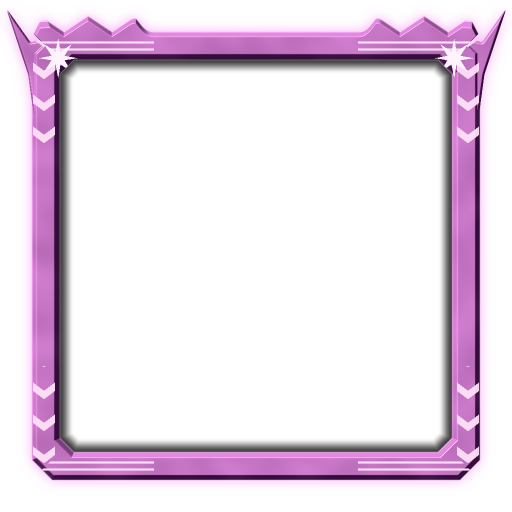
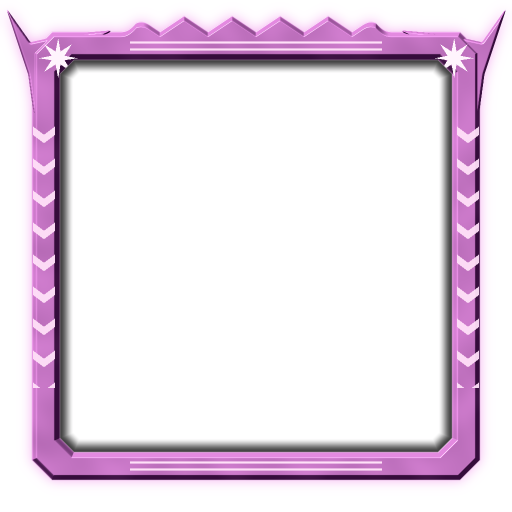
Cards: edge details repeat along the whole edge, Covenant fins stay in the corners, notes

diff --git a/Tools/UI/make_card_art.py b/Tools/UI/make_card_art.py
@@ -32,7 +32,23 @@ X = (_xx + 0.5) / SS
 Y = (_yy + 0.5) / SS
 ALONG = np.where(np.abs(X - C) > np.abs(Y - C), Y, X)   # Position along the nearest edge.
 ON_SIDE = np.abs(X - C) > np.abs(Y - C)                 # True on the left and right edges.
-CORNER_DIST = np.minimum(np.abs(X - C), np.abs(Y - C))
+FROM_EDGE_MIDDLE = np.abs(ALONG - C)                    # How far along an edge from its middle.
+
+
+def on_edge(extra=0.0):
+    """True on the repeating middle of each edge, and `extra` pixels on into the corners."""
+    return FROM_EDGE_MIDDLE <= P / 2.0 + extra
+
+
+def whole_repeats(period, phase=0.0, extra=0.0):
+    """True where a shape repeating every `period` pixels sits wholly on the edge: it is kept or dropped as a whole, never cut in half."""
+    centre = B + (np.floor((ALONG - B) / period + phase) + 0.5 - phase) * period
+    return np.abs(centre - C) <= P / 2.0 + extra
+
+
+def fade_into_corners(start, end):
+    """1 on the middle of each edge, fading to 0 between `start` and `end` pixels beyond its repeating part."""
+    return 1.0 - smooth(P / 2.0 + start, P / 2.0 + end, FROM_EDGE_MIDDLE)
 
 
 def smooth(edge0, edge1, v):
@@ -184,7 +200,7 @@ def frame_unsc(path):
     outer, window = box(24.0, chamfer=62.0), box(58.0, chamfer=40.0)
     band = inside(outer) * (1.0 - inside(window))
     noise = periodic_noise(11)
-    plate_seams = (np.abs(((ALONG - B) % (P / 2.0)) - 12.0) < 1.2) & (CORNER_DIST > C - B + 2.0)
+    plate_seams = (np.abs(((ALONG - B) % (P / 2.0)) - 12.0) < 1.2) & on_edge(0.0)
     mid = np.abs(-outer - 13.0) < 0.9
     height = bevel(outer, 7.0) * bevel(-window, 6.0) - 0.34 * mid - 0.5 * plate_seams
     c = Canvas()
@@ -193,22 +209,19 @@ def frame_unsc(path):
     wear = np.clip(periodic_noise(12, kmax=7) * 0.5 + periodic_noise(13, kmax=7) * 0.5 - 0.72, 0.0, 1.0)
     c.paint(rgb("c9d0d2"), band * wear * 0.65)
 
-    # Hazard stripes: on a strip along the inside of the band, and on plates across each cut corner.
+    # Hazard stripes: on a strip along the inside of the band, at the top and the bottom.
     stripes = (((X + Y) / 32.0) % 1.0) < 0.5
     hazard_color = np.where(stripes[..., None], np.asarray(rgb("e0a81c"), np.float32), np.asarray(rgb("15161a"), np.float32))
-    in_corner = mirrored(lambda x, y: inside(np.maximum(np.abs(x + y - 100.0) - 20.0, -(x + y - 60.0))))
-    corner_plate = in_corner * inside(box(32.0, chamfer=64.0)) * (1.0 - inside(box(52.0, chamfer=44.0)))
-    corner_plate = np.clip(corner_plate, 0.0, 1.0)
     strip = inside(np.abs(outer + 26.0) - 5.0) * smooth(C - 92.0, C - 70.0, np.maximum(np.abs(X - C), np.abs(Y - C)))
     strip = strip * (np.abs(Y - C) > np.abs(X - C))  # Strips along the top and bottom edges.
-    hazard = np.clip(corner_plate + strip, 0.0, 1.0) * band
+    hazard = strip * band
     c.paint(hazard_color, hazard)
     diffuse, _ = shade(height, 30.0)
     c.paint((0, 0, 0), hazard * np.clip(0.55 - diffuse, 0.0, 0.5))
 
     # Rivets along the edges, and larger bolts in the corners.
     rivet_u = (((ALONG - B) / 48.0) % 1.0 - 0.5) * 48.0
-    rivet = inside(np.hypot(rivet_u, -outer - 6.0) - 2.6) * (CORNER_DIST > C - B + 10.0)
+    rivet = inside(np.hypot(rivet_u, -outer - 6.0) - 2.6) * on_edge(26.0)
     c.paint(rgb("c6ced1"), rivet * band)
     bolts = mirrored(lambda x, y: inside(np.hypot(x - 92.0, y - 41.0) - 4.2) + inside(np.hypot(x - 41.0, y - 92.0) - 4.2))
     c.paint(rgb("dfe5e7"), np.clip(bolts, 0, 1))
@@ -224,10 +237,9 @@ def frame_covenant(path):
     for flip in (False, True):
         fin = []
         for t in np.linspace(0.0, 1.0, 40):
-            fin.append((6.0 + 165.0 * t ** 1.8, 6.0 + 22.0 * t + 0.0 * t))
+            fin.append((6.0 + 146.0 * t ** 1.8, 6.0 + 22.0 * t))   # Stays inside the corner: the edge beyond it repeats.
         for t in np.linspace(1.0, 0.0, 40):
-            fin.append((8.0 + 20.0 * t ** 0.0 * 0.0 + 22.0 * t + 0.0, 6.0 + 165.0 * t ** 1.8))
-        fin = [(x, y) for x, y in fin]
+            fin.append((8.0 + 22.0 * t, 6.0 + 146.0 * t ** 1.8))
         blades.append([(SIZE - x, SIZE - y) for x, y in fin] if flip else fin)
     blade_mask = polygon_mask(blades)
     blade_d = np.minimum(outer_core, (0.5 - gauss(blade_mask, 1.2)) * 8.0)
@@ -246,7 +258,7 @@ def frame_covenant(path):
     c.paint(rgb("d47bf2"), band * sheen * 0.16)
 
     # The main line of light along the middle of the band, and a thin wave beside it.
-    middle = (outer_core + (-window)) * 0.5 if False else np.abs(box(46.0, r=56.0))
+    middle = np.abs(box(46.0, r=56.0))
     glow = inside(middle - 1.1, soft=0.8) * band
     halo_line = gauss(glow, 3.5) * band
     c.add_light(rgb("53b8ff"), halo_line * 1.5)
@@ -315,7 +327,7 @@ def frame_spell_offensive(path):
     """Offensive spell: charred black iron with a red-hot edge, saw teeth all round, and spikes at the corners."""
     tooth = np.abs(line_along(48.0) - 0.5) * 2.0
     teeth = (tooth - 0.5) * 18.0
-    outer_body = box(30.0, chamfer=30.0) + teeth * smooth(C - B + 8.0, C - B + 40.0, CORNER_DIST)
+    outer_body = box(30.0, chamfer=30.0) + teeth * fade_into_corners(8.0, 40.0)
     spikes = []
     for sx, sy in ((1, 1), (-1, 1), (1, -1), (-1, -1)):
         def corner(px, py):
@@ -337,7 +349,7 @@ def frame_spell_offensive(path):
     cracks = np.clip(1.0 - np.abs(periodic_noise(42, terms=30, kmax=7)) * 9.0, 0.0, 1.0) ** 2
     c.add_light(rgb("ff5a1c"), band * cracks * 0.6)
     # The red-hot inner edge.
-    hot = inside(np.abs(-window - 0.0) - 2.2, soft=0.9) * (1.0 - inside(window) * 0.0)
+    hot = inside(np.abs(window) - 2.2, soft=0.9)
     c.add_light(rgb("ff4a14"), gauss(hot, 2.0) * 1.1 * (1.0 - inside(window) * 0.6))
     c.add_light(rgb("ffd27a"), hot * band * 0.9)
     inner_shadow(c, window, 14.0, 0.75)
@@ -361,8 +373,8 @@ def frame_spell_defensive(path):
     # A honeycomb of light on the inner ring.
     u, v = (X - B) / 24.0, (Y - B) / 24.0
     hex_a = np.abs(np.cos(math.pi * u))
-    hex_b = np.abs(np.cos(math.pi * (u * 0.5 + v * 0.8660254 * 8.0 / 8.0 * 1.0)))
-    hex_c = np.abs(np.cos(math.pi * (u * 0.5 - v * 0.8660254 * 8.0 / 8.0 * 1.0)))
+    hex_b = np.abs(np.cos(math.pi * (u * 0.5 + v)))
+    hex_c = np.abs(np.cos(math.pi * (u * 0.5 - v)))
     cells = np.clip(1.0 - np.minimum(np.minimum(hex_a, hex_b), hex_c) * 9.0, 0.0, 1.0)
     inner_ring = inside(gap_in) * (1.0 - inside(window))
     c.add_light(rgb("7ec8ff"), cells * inner_ring * 0.35)
@@ -400,7 +412,7 @@ def frame_economy(path):
     coin_u = (line_along(64.0) - 0.5) * 64.0
     coin_v = -outer - 17.0
     coin_d = np.hypot(coin_u, coin_v)
-    away = CORNER_DIST > C - B + 22.0
+    away = whole_repeats(64.0, extra=32.0)
     coin = inside(coin_d - 11.0) * away
     c.paint(rgb("3d2c05"), inside(coin_d - 12.5) * away * 0.8)
     c.paint(rgb("f2c842"), coin)
@@ -426,10 +438,9 @@ def frame_economy(path):
 
 def frame_buff(path):
     """Buff: orchid alloy with a crown of rising points on top, chevrons rising up the sides, and swept-up top corners."""
-    side = np.where(Y < C, 1.0, 0.0)
     crown_wave = np.abs(line_along(48.0) - 0.5) * 2.0
     top_edge = (~ON_SIDE) & (Y < C)
-    outer_body = box(32.0, chamfer=20.0) - top_edge * (1.0 - crown_wave) * 16.0 * smooth(C - B + 6.0, C - B + 30.0, CORNER_DIST)
+    outer_body = box(32.0, chamfer=20.0) - top_edge * (1.0 - crown_wave) * 16.0 * fade_into_corners(10.0, 40.0)
     wings = []
     for sx in (1, -1):
         def corner(px, py):
@@ -448,10 +459,10 @@ def frame_buff(path):
     # Chevrons rising up the left and right edges.
     u = (((Y - B) / 32.0) % 1.0) * 32.0
     across = np.abs(np.minimum(X, SIZE - X) - 44.0)
-    chevron = (np.abs((u + across * 0.75) % 32.0 - 11.0) < 4.2) & (across < 11.0) & ON_SIDE & (CORNER_DIST > C - B + 14.0)
+    chevron = (np.abs((u + across * 0.75) % 32.0 - 11.0) < 4.2) & (across < 11.0) & ON_SIDE & on_edge(36.0)
     c.paint(rgb("ffe0f8"), chevron.astype(np.float32) * band * 0.95)
     # A double line on the top and bottom edges.
-    top_bottom = (~ON_SIDE) & (CORNER_DIST > C - B + 6.0)
+    top_bottom = (~ON_SIDE) & on_edge(30.0)
     line_d = np.abs(np.minimum(Y, SIZE - Y) - 46.0)
     c.paint(rgb("ffe0f8"), inside(np.abs(line_d - 3.5) - 1.1) * top_bottom * band)
     # A rising star in each top corner, a small point in each bottom corner.
@@ -479,7 +490,7 @@ def frame_item(path):
     """Item: brass and gunmetal like a machine part: notched cut corners, hex bolts along the edges, a hex nut in each corner."""
     outer_plain = box(26.0, chamfer=46.0)
     notch_u = np.abs(line_along(96.0) - 0.5) * 96.0
-    notches = (notch_u < 14.0) & (CORNER_DIST > C - B + 6.0)
+    notches = (notch_u < 14.0) & on_edge(20.0)
     outer = np.where(notches, outer_plain + 7.0, outer_plain)
     window = box(60.0, chamfer=24.0)
     band = inside(outer) * (1.0 - inside(window))
@@ -496,7 +507,7 @@ def frame_item(path):
     # Hex bolts on the edges, repeating.
     u = (line_along(96.0, 0.5) - 0.5) * 96.0
     v = -outer_plain - 15.0
-    away = CORNER_DIST > C - B + 26.0
+    away = whole_repeats(96.0, phase=0.5, extra=0.5)
     bolt = _hexagon_d(u, v, 0.0, 0.0, 10.0)
     c.paint(rgb("1b1204"), inside(bolt - 2.0) * away * 0.8)
     c.paint(rgb("cfd3d6"), inside(bolt) * away)
@@ -526,17 +537,16 @@ def frame_training(path):
     metal(c, band, height, rgb("06302f"), rgb("46cdbb"), noise, strength=16.0, spec=0.12, spec_power=12.0)
     # Stitches.
     dash = (((ALONG - B) / 16.0) % 1.0) < 0.58
-    seam = inside(np.abs(outer + 7.0) - 1.5) * dash * (CORNER_DIST > C - B + 0.0)
-    corner_arc = inside(np.abs(outer + 7.0) - 1.5) * (CORNER_DIST <= C - B + 0.0) * (((np.arctan2(C - np.abs(Y - C), C - np.abs(X - C)) * 22.0) % 1.0) < 0.58)
-    c.paint(rgb("ecfffb"), np.clip(seam + corner_arc, 0, 1) * band)
-    seam2 = inside(np.abs(window - 6.0) - 1.3) * dash * (CORNER_DIST > C - B + 0.0)
+    seam = inside(np.abs(outer + 7.0) - 1.5) * dash
+    c.paint(rgb("ecfffb"), seam * band)
+    seam2 = inside(np.abs(window - 6.0) - 1.3) * dash
     c.paint(rgb("ecfffb"), seam2 * band * 0.85)
     # Three rank chevrons in each corner, pointing into the corner.
     x, y = np.minimum(X, SIZE - X), np.minimum(Y, SIZE - Y)
     cover = np.zeros_like(X)
     for offset in (0.0, 15.0, 30.0):
-        d = np.maximum(x, y) + 0.0  # A right-angled chevron with its point towards the card's corner.
-        cover = np.maximum(cover, inside(np.abs(d - (46.0 + offset)) - 4.4) * (np.minimum(x, y) > 32.0 + offset * 0.0) * (np.maximum(x, y) < 100.0))
+        d = np.maximum(x, y)  # A right-angled chevron with its point towards the card's corner.
+        cover = np.maximum(cover, inside(np.abs(d - (46.0 + offset)) - 4.4) * (np.minimum(x, y) > 32.0) * (d < 100.0))
     c.paint(rgb("052826"), gauss(cover, 1.5) * 0.9)
     c.paint(rgb("ffe28a"), cover)
     inner_shadow(c, window, 12.0, 0.7)
@@ -708,8 +718,8 @@ def e_missile(d, s, cx, cy, size, angle):
 
 def e_missiles(d, s):
     a = math.radians(180 + 30)
-    for cx, cy in ((0.28, 0.32), (0.56, 0.2), (0.48, 0.62), (0.78, 0.5)):
-        e_missile(d, s, s * cx, s * cy, s * 0.15, a)
+    for cx, cy in ((0.24, 0.3), (0.56, 0.2), (0.44, 0.66), (0.78, 0.54)):
+        e_missile(d, s, s * cx, s * cy, s * 0.22, a)
 
 
 def e_nuke(d, s):
@@ -819,11 +829,11 @@ def e_blessing(d, s):
 
 
 def e_shell(d, s):
-    # A lumpy shell around a small core.
-    for cx, cy, r in ((0.5, 0.2, 0.15), (0.26, 0.34, 0.15), (0.74, 0.34, 0.15), (0.18, 0.58, 0.14), (0.82, 0.58, 0.14), (0.32, 0.8, 0.14), (0.68, 0.8, 0.14), (0.5, 0.86, 0.12)):
+    # A thick lumpy wall curling round a small core.
+    for cx, cy, r in ((0.5, 0.17, 0.16), (0.27, 0.27, 0.17), (0.74, 0.3, 0.15), (0.15, 0.52, 0.14), (0.86, 0.56, 0.13), (0.26, 0.78, 0.17), (0.7, 0.8, 0.16), (0.48, 0.88, 0.12)):
         puff(d, s * cx, s * cy, s * r)
-    puff(d, s * 0.5, s * 0.54, s * 0.27, CLEAR)
-    puff(d, s * 0.5, s * 0.54, s * 0.13)
+    d.ellipse((s * 0.28, s * 0.3, s * 0.72, s * 0.74), fill=CLEAR)
+    puff(d, s * 0.5, s * 0.52, s * 0.11)
 
 
 def e_rain(d, s):
@@ -933,14 +943,14 @@ def e_faction_covenant(d, s):
 
 
 def e_faction_flood(d, s):
-    # A lobed spore with a dark heart.
-    for i in range(7):
-        a = math.tau * i / 7.0 + 0.3
-        r = 0.27 if i % 2 == 0 else 0.33
-        puff(d, s * (0.5 + r * math.cos(a)), s * (0.5 + r * math.sin(a)), s * (0.15 if i % 2 == 0 else 0.11))
-    puff(d, s * 0.5, s * 0.5, s * 0.25)
-    puff(d, s * 0.5, s * 0.5, s * 0.11, CLEAR)
-    puff(d, s * 0.5, s * 0.5, s * 0.05)
+    # A misshapen spore with a dark heart, and tendrils reaching out from it unevenly.
+    for a, length, width in ((0.3, 0.47, 0.05), (1.25, 0.38, 0.04), (2.1, 0.46, 0.055), (3.0, 0.36, 0.04), (3.85, 0.48, 0.05), (4.7, 0.34, 0.04), (5.5, 0.44, 0.05)):
+        bend = a + 0.45
+        thick_line(d, [(s * 0.5, s * 0.5), (s * (0.5 + length * 0.6 * math.cos(a)), s * (0.5 + length * 0.6 * math.sin(a))), (s * (0.5 + length * math.cos(bend)), s * (0.5 + length * math.sin(bend)))], s * width)
+    for cx, cy, r in ((0.5, 0.5, 0.25), (0.34, 0.42, 0.14), (0.64, 0.4, 0.13), (0.62, 0.64, 0.14), (0.38, 0.64, 0.12)):
+        puff(d, s * cx, s * cy, s * r)
+    puff(d, s * 0.5, s * 0.51, s * 0.11, CLEAR)
+    puff(d, s * 0.5, s * 0.51, s * 0.045)
 
 
 EMBLEMS = {

diff --git a/Docs/M10/cards.md b/Docs/M10/cards.md
@@ -1,0 +1,70 @@
+# Cards with unit icons and borders (M10)
+
+The owner's words: "Cards should have icons with the units, different borders of cards depending on spell, econ, buff, reinforcement factions."
+
+## What you see
+
+**Starting draft.** Up to five cards (it lays out 2 to 5). Each card has its faction's border, the faction's name and emblem, the sub-faction on a big banner across the card, and its two free squads with big pictures.
+
+**Card offers.** Every card has a border and a coloured ribbon that say what kind it is, at a glance, by colour and by shape:
+
+| Kind | Colour | Shape |
+| --- | --- | --- |
+| Offensive spell | red-hot on charred iron | saw teeth all round, spikes at the corners, cracks with heat in them |
+| Defensive spell | blue | smooth and rounded, two rings with light between them, a small shield in each corner |
+| Economy | green and gold | gold coins along the edges, a big coin in each corner |
+| Army buff | orchid | a crown of points on top, chevrons rising up the sides, swept-up top corners with a star |
+| Item | brass | a machine part: notched cut corners, hex bolts along the edges, a hex nut in each corner |
+| Training | teal | a stitched uniform patch, with three rank chevrons in each corner |
+| Reinforcements, UNSC | steel and yellow | cut corners, plates and rivets, hazard stripes |
+| Reinforcements, Covenant | violet | sweeping fins at two corners, lines of blue light |
+| Reinforcements, Flood | sick green and flesh | a lumpy rim that grows over the card, veins and pustules |
+
+A spell or a buff has a large emblem; a reinforcement card has the unit's picture, with its level and number of squads on it. The card under the mouse glows in its kind's colour.
+
+**Small pictures.** The shop and unlock rows, the sandbox's unit list and the squad window also show the unit's picture.
+
+## Unit pictures
+
+`UnitIcons.For(unit, faction)` gives the picture of any unit, and never fails. It looks up `Resources/UnitIcons/<unit name>.png` by name.
+
+The **Unit Icon Renderer** makes those files (Halobellum > Art > Render Unit Icons, or `-executeMethod Halobellum.EditorTools.UnitIconRenderer.RenderAllFromCommandLine`). **Run it again whenever a unit gets a real model, or when new units are added.** It renders each real model and baked body from a 3/4 front view, and writes a designed fallback for each unit that is still a placeholder. `UnitIcons/index.txt` lists how each picture was made.
+
+A unit added since the tool last ran still gets its fallback, put together at run time from the same parts, so nothing breaks while new units come in.
+
+**The fallback** is a dark shape of the unit's kind of body with an edge of light, on a glow in the faction's colour, with its role's emblem in a badge. The shape comes from its stats (`UnitIcons.BodyShapeFor`): trooper, heavy trooper, shield trooper, hulk, speeder, tank, walker, flyer, pod, Flood form, Flood beast or Flood swarm.
+
+Units that fall back today (20): Archer Missile Pod, Combat Form, Elite, Flamethrower Trooper, Flood Abomination, Ghost, Hunter Pair, Jackal (Plasma Rifle), Jackal (Shield), Mantis, ODST, Placeholder Heavy Tank, Placeholder Infantry, Placeholder Light Vehicle, Seeder, Spartan, Swarm Form, Vampire, Wolverine, Zealot.
+
+## The art
+
+All of it is original and drawn by code, nothing downloaded: `Tools/UI/make_card_art.py` (numpy and Pillow). Run it again after changing it. Unity makes the .meta files; `CardArtImport` sets the import settings.
+
+- `Resources/CardArt/Frames`: a 512 x 512 border and a ribbon per kind.
+- `Resources/CardArt/Emblems`: white emblems (tinted when drawn): one per spell, one per spell effect (a new spell falls back on its effect's), one per kind of card, one per faction, and large versions of the item and card icons of `Art/UI/Items`. The faction emblems are plain abstract marks made for this game, on purpose nothing like any existing insignia. The owner can replace them.
+- `Resources/CardArt/Layers`: the body shapes and role emblems of the fallback.
+
+**How a border stays crisp.** It is a nine-slice with a difference: the corners are fixed, and each edge *repeats* its middle part a whole number of times instead of stretching it, so rivets, teeth and growths keep their shape at any card size. So everything on an edge in the generator repeats every 192 pixels (a test checks that it joins up), and the big shapes are in the corners. Pieces are placed on whole screen pixels, because the immediate-mode GUI otherwise leaves hairlines between them.
+
+## Layout
+
+`CardLayout.Arrange` fits 1 to 5 cards across any screen. A test checks every count at 16:9, 4:3, 5:4, 21:9 and a tiny window. Text shrinks to fit its place on a narrow card, down to a size that is still legible. It never breaks a word in the middle if a smaller size would avoid it. Narrow draft cards put each squad's text under its picture; wide ones put it beside.
+
+## Looking at it
+
+`Halobellum.exe -screen-fullscreen 0 -screen-width 1600 -screen-height 900 -cardsDemo <folder>` takes a picture of every card screen for all three factions, at several window sizes: the draft with 2 to 5 cards, every kind of card, reinforcements, the hover glow, the shop and squad window, and the sandbox's list. It logs how many labels did not fit (`Card demo finished: ...`). It builds offers and sets the phase directly, which never happens in a real match.
+
+`Tools/UI/icon_sheet.py` makes a contact sheet of the unit pictures. `make_card_art.py --sheet out.png` makes one of the frames, with edges tiled as in the game.
+
+## Code
+
+- `UI/UnitIcons.cs`: the lookup and the fallback.
+- `UI/CardArt.cs`: frames, ribbons, emblems, drawing.
+- `UI/CardLayout.cs`: where the cards go (plain arithmetic).
+- `UI/CardScreens.cs`: draws one card, and the text that fits.
+- `UI/CardScreensDemo.cs`: the screenshots.
+- `UI/MatchHud.cs`: the draft and card screens now only lay out and call these. `DrawGeneralCard`, `DrawReinforcementCard`, `CardKindText` and `CardKindColor` moved to `CardScreens`.
+- `Editor/UnitIconRenderer.cs`, `Editor/CardArtImport.cs`: the tool and the import settings.
+- `Tests/EditMode/Unity/CardArtTests.cs`.
+
+The simulation was not touched.
